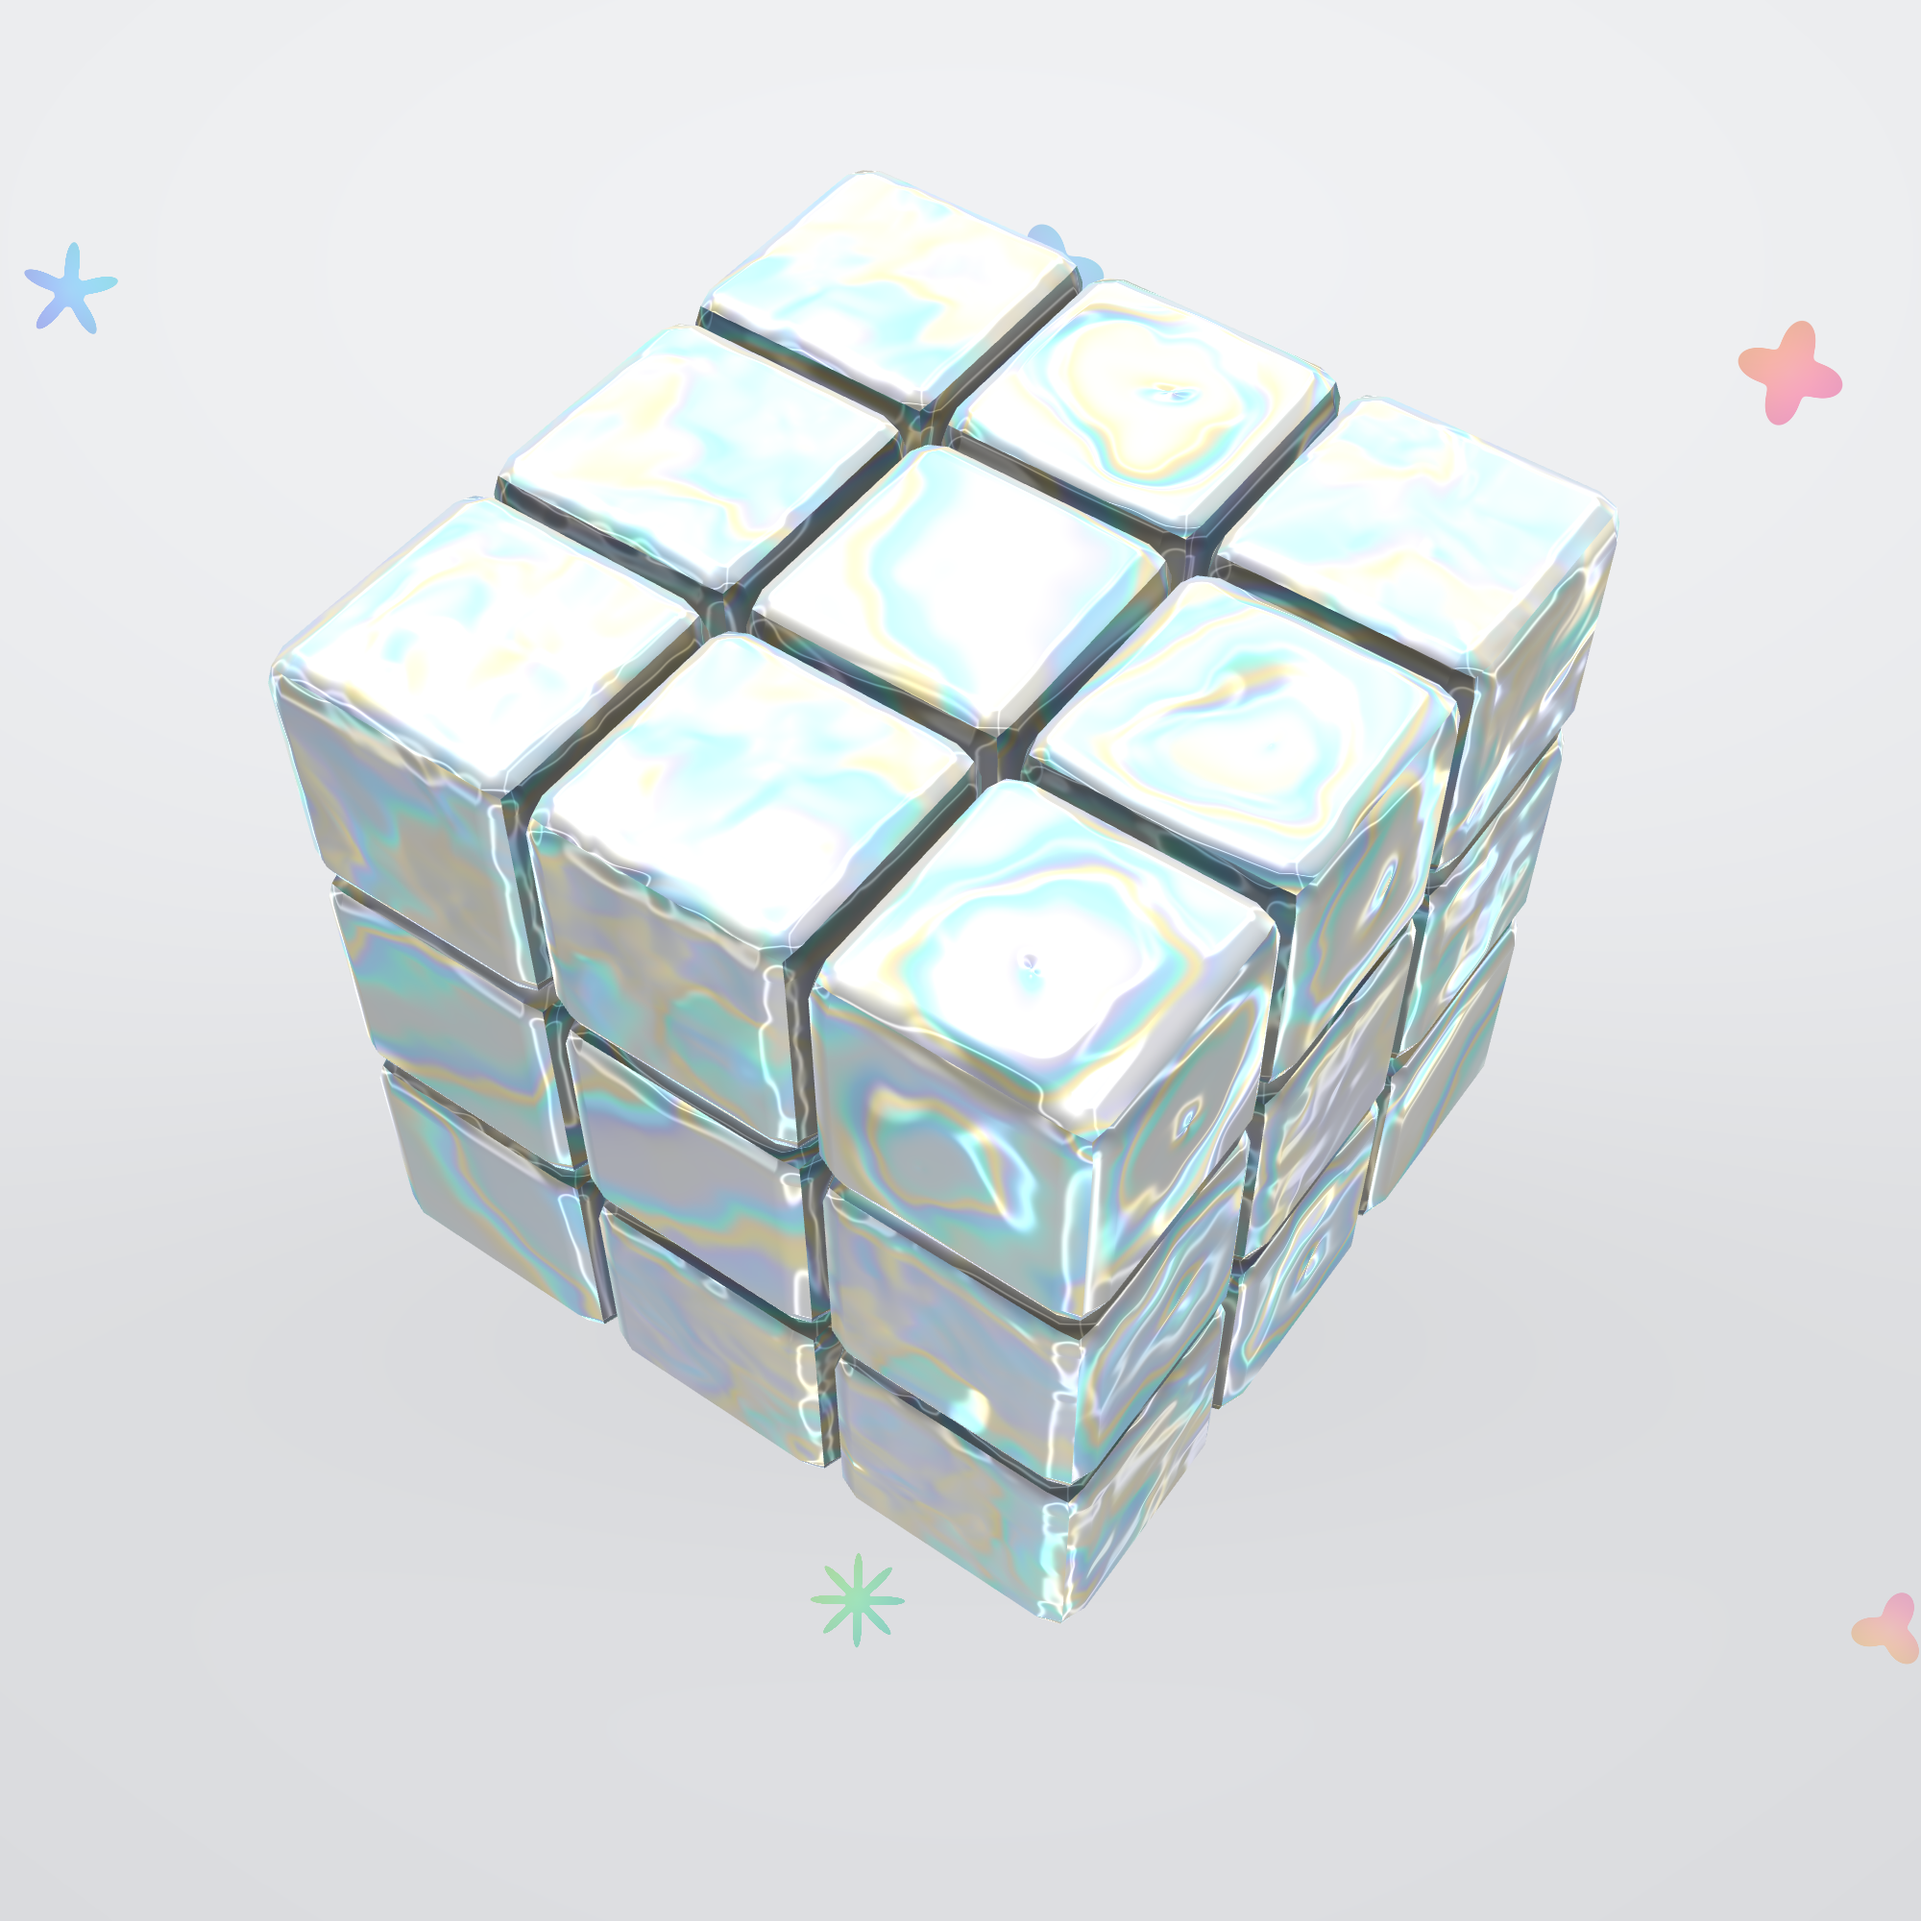
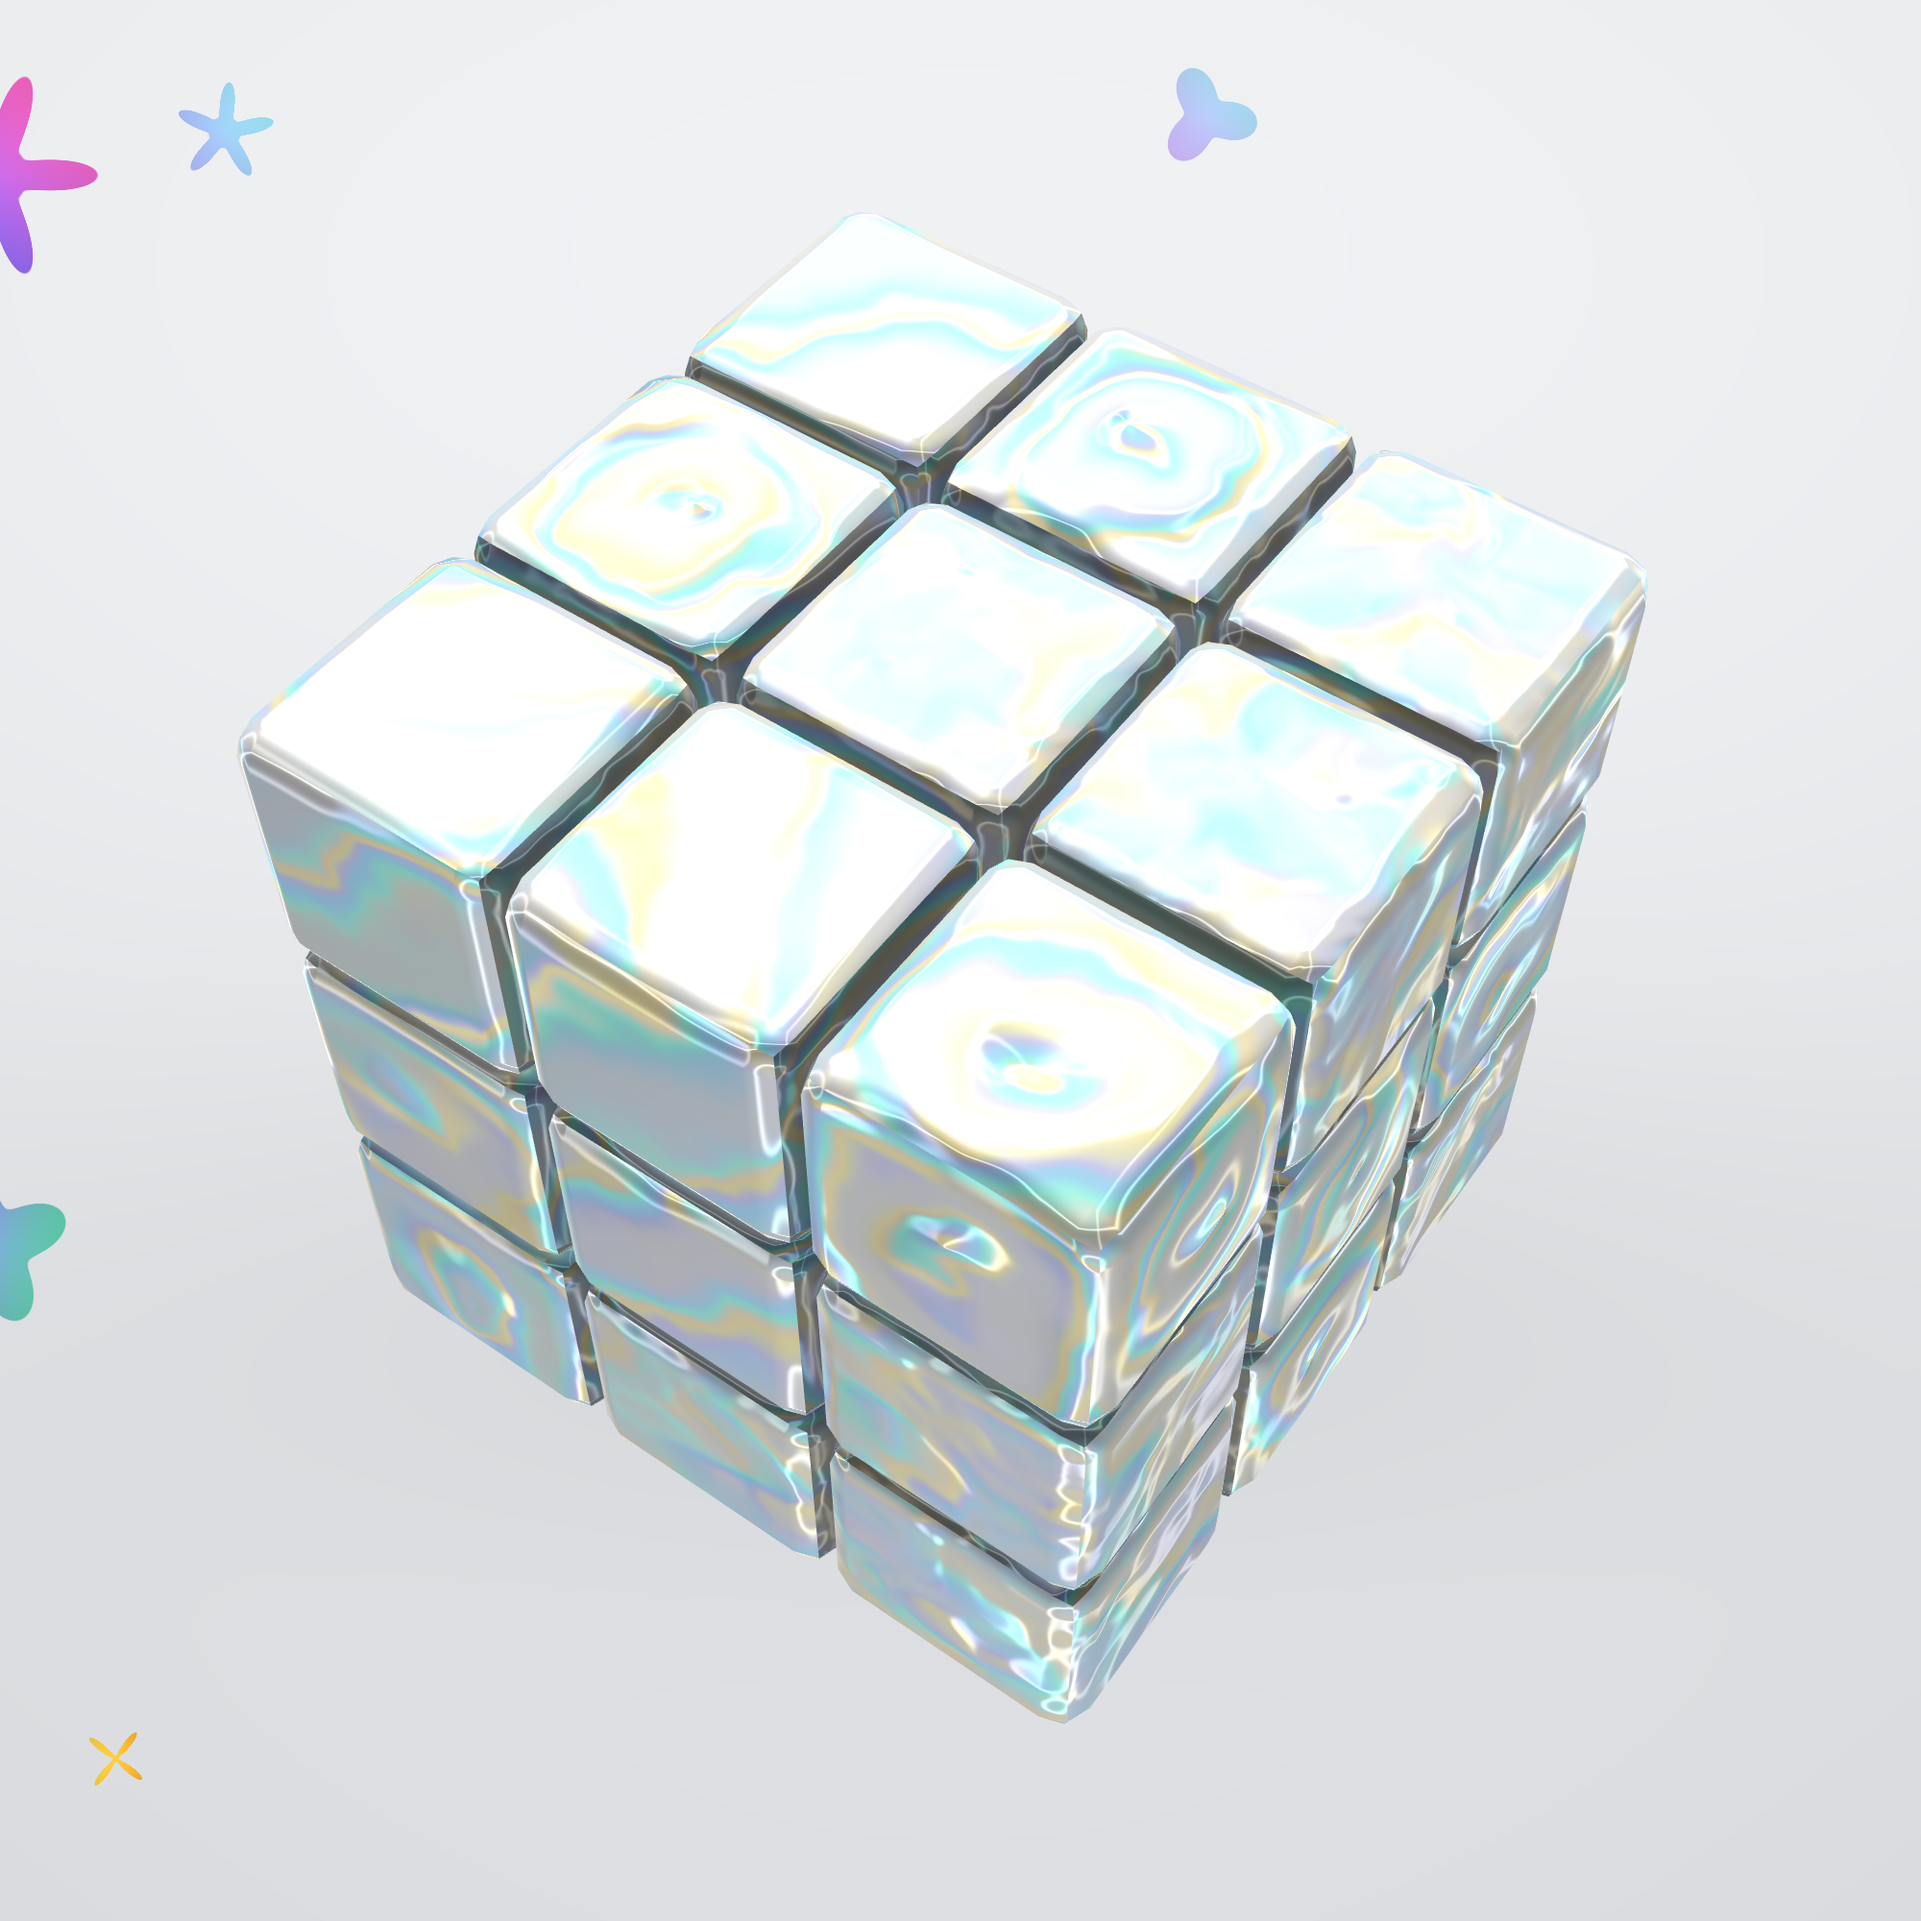
Prism Cube: centred stills, new intro copy, a way back to the portfolio
The stills are shot with the cube on the middle of the frame. In the piece
the camera lifts it a little so the controls underneath have room; a still
has no controls, so it had no reason to sit high. Both thumbnails and the
site icon are regenerated with that lift dropped.

The top right now carries `Minjifolio ↗`, at the other pieces' verbatim
offsets so the link lands on the same pixel from page to page, with the clock
and move count stacked underneath it. Like the others it steps back through
history when the visitor arrived from the portfolio, so they return to where
they left off rather than the top of the page.

The card copy is replaced. The old lines explained the mechanic; these say
what it feels like to play:

  표면이 한 번도 같은 적이 없었던 큐브입니다.
  색이 아닌 질감으로 맞추다 보면
  어디서 온 조각인지 알아낼 수 있을거에요.

Verified with Chromium: the link matches the other two pieces on text, href,
size, letter-spacing, case and position (56 px from the right, 38 px down),
and dragging on it does not turn a layer. Keys 9/9, drags 36/36, solve, undo,
redo, mobile, reduced motion and 1920 all clean, no console errors.

Claude-Session: https://claude.ai/code/session_01SUSnVsFF5RF51KTd7HUxUF

diff --git a/art/prism-cube/index.html b/art/prism-cube/index.html
@@ -47,11 +47,21 @@
   .hud{position:fixed;pointer-events:none;z-index:5}
   .hud > *{pointer-events:auto}
 
-  #top{top:0;left:0;right:0;display:flex;justify-content:space-between;align-items:flex-start;padding:18px 20px 34px;gap:16px;
+  #top{top:0;left:0;right:0;display:flex;justify-content:flex-start;align-items:flex-start;padding:18px 20px 34px;gap:16px;
     background:linear-gradient(to bottom, rgba(238,239,242,.86), rgba(238,239,242,0))}
   .mark{font-size:11px;font-weight:300;letter-spacing:.24em;color:var(--dim);line-height:1.7}
   .mark b{display:block;font-family:var(--display);font-size:34px;line-height:1.05;letter-spacing:.06em;
     color:var(--ink);font-weight:700;margin-bottom:6px}
+  /* The way back to the portfolio. The offsets are the other pieces' verbatim,
+     so the link lands on the same pixel from page to page; the clock and move
+     count stack underneath it. */
+  .topright{
+    position:fixed;right:clamp(1.2rem,5vw,3.5rem);top:calc(2.4rem + env(safe-area-inset-top));
+    display:flex;flex-direction:column;align-items:flex-end;gap:20px;
+  }
+  .backlink{font-size:11.5px;letter-spacing:.1em;text-transform:uppercase;
+    color:var(--dim);text-decoration:none;transition:color .2s ease}
+  .backlink:hover,.backlink:focus-visible{color:var(--ink)}
   .stats{display:flex;gap:22px;text-align:right;font-variant-numeric:tabular-nums}
   .stat span{display:block;font-size:9.5px;font-weight:300;letter-spacing:.24em;text-transform:uppercase;color:var(--dim);margin-bottom:5px}
   .stat b{font-size:21px;font-weight:600;letter-spacing:.02em}
@@ -122,9 +132,12 @@
 
 <div class="hud" id="top">
   <div class="mark"><b>PRISM CUBE</b>A Swimming Surface</div>
-  <div class="stats">
-    <div class="stat"><span>Time</span><b id="tTime">0:00</b></div>
-    <div class="stat"><span>Moves</span><b id="tMoves">0</b></div>
+  <div class="topright">
+    <a class="backlink" href="../">Minjifolio ↗</a>
+    <div class="stats">
+      <div class="stat"><span>Time</span><b id="tTime">0:00</b></div>
+      <div class="stat"><span>Moves</span><b id="tMoves">0</b></div>
+    </div>
   </div>
 </div>
 
@@ -1347,11 +1360,24 @@ if(/[?&]debug/.test(location.search)){
     zoom: function(){ return { z:zoom, target:zoomT, dist:view.dist, base:baseDist,
                                lo:Math.max(ZOOM_IN, zoomFloor()), hi:ZOOM_OUT, decoFront:DECO_FRONT }; },
     setZoom: function(z){ zoomT = clampZoom(z); },
+    center: function(){ cyFrac = 0; },      // for stills shot with the HUD hidden
     deco: function(){ return DECO.map(function(D){ return { p:D.p.slice(), follow:+D.follow.toFixed(4), z:+D.depth.toFixed(3) }; }); },
     orbit: function(y,pi){ viewT.yaw = y; viewT.pitch = pi; },
     flags: function(){ return { scrambled:scrambled, active:active, moves:moves, anim:!!anim }; }
   };
 }
+
+// the home link goes BACK when we came from the portfolio, so the page
+// returns to where the visitor left off instead of the top
+(function(){
+  var back = document.querySelector('.backlink');
+  if(back) back.addEventListener('click', function(e){
+    if(history.length > 1 && document.referrer.indexOf(location.origin) === 0){
+      e.preventDefault();
+      history.back();
+    }
+  });
+})();
 
 syncControls();
 resize();

diff --git a/art/prism-cube/README.md b/art/prism-cube/README.md
@@ -10,6 +10,9 @@
 | 썸네일 4:3 · 2400×1800 | `thumbnail.png` |
 | 썸네일 1:1 · 2000×2000 | `thumbnail-square.png` |
 
+썸네일은 HUD를 숨기고 큐브를 화면 정가운데에 놓고 찍습니다 — 평소에는 아래 컨트롤을
+피해 조금 올라가 있지만, 컨트롤이 없는 스틸에서는 그럴 이유가 없습니다.
+
 `index.html`은 라이브러리도 이미지도 참조하지 않는 단일 파일입니다. 그대로 복사해
 `/art/prism-cube/index.html` 같은 경로에 두고 링크하거나 iframe으로 임베드하면 됩니다.
 
@@ -23,9 +26,19 @@
 `index.html` 안에 data URI로 넣었습니다. 전체 8종 합쳐 약 65 KB이고, 외부 요청이 없습니다.
 조작 안내는 한 번 읽고 나면 잊히는 줄이라, 나머지보다 작고 조용한 얼굴을 씁니다.
 
-## 한 줄 소개
+## 소개글
 
-표면이 멈추지 않는 홀로그램 큐브. 여섯 면이 같은 은빛이라, 맞추는 일이 색을 외우는 일이 아니게 됩니다.
+사이트 카드에 그대로 들어가는 문구입니다.
+
+> 표면이 한 번도 같은 적이 없었던 큐브입니다.
+> 색이 아닌 질감으로 맞추다 보면
+> 어디서 온 조각인지 알아낼 수 있을거에요.
+
+영문:
+
+> A cube whose surface has never once been the same.
+> Match it by texture instead of colour, and
+> you will work out where each piece came from.
 
 ## 설명 (국문)
 
@@ -76,6 +89,7 @@ Built in raw WebGL — no libraries, no images, one file.
   | `X` `C` `V` | 앞 | 가운데 | 뒤 |
 - `Space` 섞기 · `Z` 되돌리기 · `Y` 다시 실행
 - 컨트롤: Scramble / Undo / Redo / Reset / Recenter
+- 오른쪽 위 `Minjifolio ↗` → 포트폴리오로 돌아가기 (다른 작업들과 같은 자리·같은 모양)
 
 ## 기술
 
